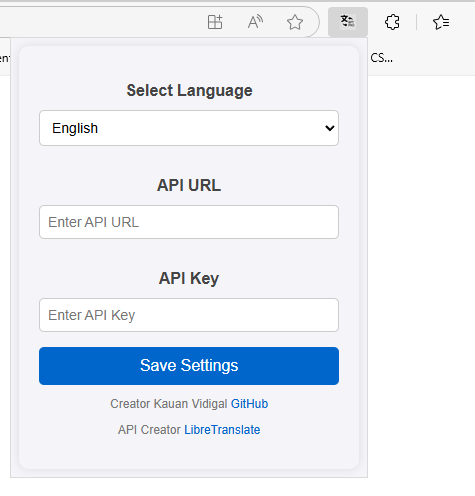
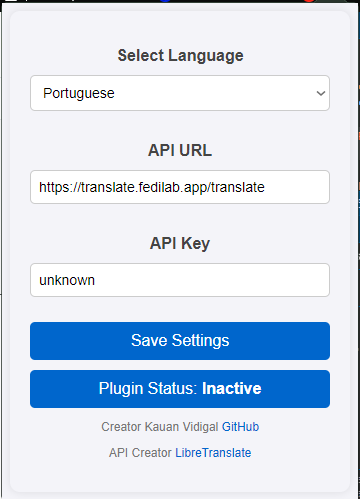
Update Plugin 'Active' or 'Inactive'

diff --git a/popup.js b/popup.js
@@ -1,8 +1,12 @@
+let isPluginActive = true;
+
 document.addEventListener('DOMContentLoaded', () => {
-    chrome.storage.local.get(['targetLanguage', 'apiUrl', 'apiKey'], (result) => {
+    chrome.storage.local.get(['targetLanguage', 'apiUrl', 'apiKey', 'isPluginActive'], (result) => {
         document.getElementById('languageSelect').value = result.targetLanguage || 'en';
         document.getElementById('apiUrl').value = result.apiUrl || '';
         document.getElementById('apiKey').value = result.apiKey || '';
+        isPluginActive = result.isPluginActive !== undefined ? result.isPluginActive : true;
+        updatePluginButton();
     });
 });
 
@@ -15,3 +19,17 @@ document.getElementById('saveButton').addEventListener('click', () => {
         alert('Settings saved successfully');
     });
 });
+
+document.getElementById('togglePluginButton').addEventListener('click', () => {
+    isPluginActive = !isPluginActive;
+    chrome.storage.local.set({ isPluginActive }, () => {
+        updatePluginButton();
+        chrome.runtime.sendMessage({ action: 'updatePluginStatus', isActive: isPluginActive });
+        alert(`Plugin ${isPluginActive ? 'Activated' : 'Deactivated'}`);
+    });
+});
+
+function updatePluginButton() {
+    const statusButton = document.getElementById('togglePluginButton');
+    statusButton.innerHTML = `Plugin Status: <strong>${isPluginActive ? 'Active' : 'Inactive'}</strong>`;
+}

diff --git a/render.js b/render.js
@@ -1,8 +1,33 @@
-let isTranslationSent = false;
-
 const storageAPI = (typeof chrome !== "undefined" && chrome.storage) ? chrome.storage : browser.storage;
 
+let isTranslationSent = false;
+let isPluginActive = true;
+
+chrome.storage.local.get(['isPluginActive'], (result) => {
+    isPluginActive = result.isPluginActive !== undefined ? result.isPluginActive : true;
+});
+
+chrome.storage.onChanged.addListener((changes) => {
+    if (changes.isPluginActive) {
+        isPluginActive = changes.isPluginActive.newValue;
+    }
+});
+
+chrome.runtime.onMessage.addListener((message) => {
+    if (message.action === 'updatePluginStatus') {
+        isPluginActive = message.isActive;
+    }
+});
+
+
+document.addEventListener('selectionchange', () => {
+    isTranslationSent = false;
+});
+
+
 document.addEventListener('mouseup', async () => {
+    if (!isPluginActive) return;
+
     const selectedText = window.getSelection().toString().trim();
 
     if (selectedText && !isTranslationSent) {
@@ -33,11 +58,9 @@ document.addEventListener('mouseup', async () => {
     }
 });
 
-document.addEventListener('selectionchange', () => {
-    isTranslationSent = false;
-});
-
 function showTranslationPopup(translatedText) {
+    if (!isPluginActive) return;
+
     const popup = document.createElement('div');
     popup.className = 'translation-popup';
     popup.innerHTML = `

diff --git a/popup.html b/popup.html
@@ -1,4 +1,5 @@
 <!DOCTYPE html>
+<!-- CREATED BY KAUAN VIDIGAL- GITHUB Vidigal-code (https://github.com/Vidigal-code) -->
 <html lang="en">
 <head>
     <meta charset="UTF-8">
@@ -28,6 +29,8 @@
 <input type="text" id="apiKey" placeholder="Enter API Key"/>
 
 <button id="saveButton">Save Settings</button>
+
+<button id="togglePluginButton">Plugin Status: <strong>Active</strong></button>
 
 <p>Creator Kauan Vidigal <a href="https://github.com/Vidigal-code/BPT-Pro" target="_blank">GitHub</a></p>
 <p>API Creator <a href="https://github.com/LibreTranslate/LibreTranslate" target="_blank">LibreTranslate</a></p>

diff --git a/css/style.css b/css/style.css
@@ -32,6 +32,7 @@ select:focus, input:focus {
 }
 
 button {
+    margin-top: 10px;
     width: 100%;
     padding: 10px;
     background-color: #0066cc;
